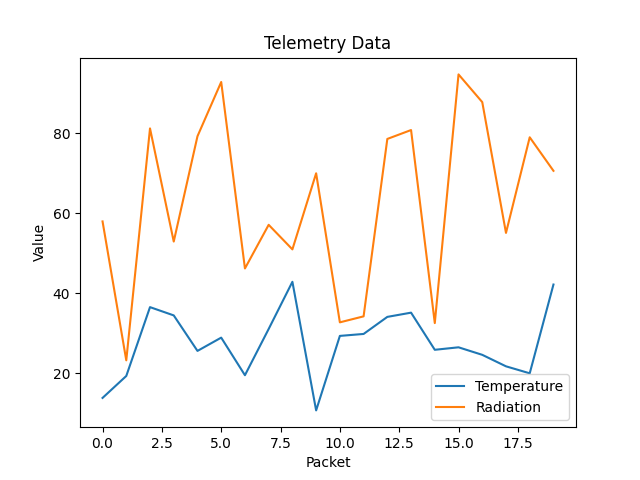
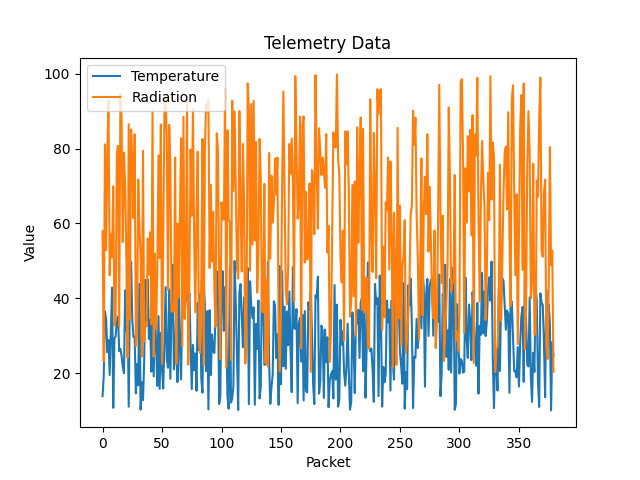
Architecture documentation completed

diff --git a/docs/ARCHITECTURE.md b/docs/ARCHITECTURE.md
@@ -1,0 +1,178 @@
+# PDT Simulator Architecture
+
+Satellite Telemetry Simulator
+
+---
+
+> Architecture and system design documentation for the PDT Simulator project.
+
+---
+
+## Overview
+
+════════════════════════════════
+
+PDT Simulator is a satellite telemetry simulation platform designed to emulate the complete lifecycle of telemetry acquisition, storage, export and transmission.
+
+The system generates realistic telemetry data from multiple simulated satellites, stores packets in memory, exports information to structured formats (CSV and JSON), and transmits telemetry through a UDP-based communication layer to a ground station.
+
+The project was developed following software engineering principles, including modular architecture, multithreading, network simulation, UML modeling, and technical documentation.
+
+---
+
+## Architecture Layers
+
+════════════════════════════════
+
+### Simulation Layer
+
+→ Responsible for application orchestration and concurrent execution of satellite workers.
+
+Components
+
+Main
+
+SatelliteWorker
+
+### Satellite Layer
+
+→ Responsible for telemetry generation and satellite behavior simulation.
+
+Components
+
+Satellite
+
+### Telemetry Layer
+
+→ Responsible for telemetry packet representation and temporary memory storage.
+
+Components
+
+DataPacket
+
+DDRMemory
+
+### Export Layer
+
+→ Responsible for persistent telemetry export.
+
+Components
+
+CSVExporter
+
+JSONExporter
+
+### Network Layer
+
+→ Responsible for telemetry transmission and reception through UDP communication.
+
+Components
+
+Transmitter
+
+TelemetryServer
+
+GroundStation
+
+---
+
+## Architecture Diagrams
+
+════════════════════════════════
+
+### UML Class Diagram
+
+The UML Class Diagram represents the static architecture of the simulator and the relationships between its components.
+
+<p>
+  <img src="uml-class-diagram.png" width="900">
+</p>
+
+---
+
+### System Flow Diagram
+
+The System Flow Diagram illustrates the complete telemetry lifecycle, from satellite data generation to ground station reception.
+
+<p>
+  <img src="system-flow-diagram.png" width="600">
+</p>
+
+---
+
+## Execution Flow
+
+════════════════════════════════
+
+The simulator executes the following workflow:
+
+1. Satellites generate telemetry data.
+
+2. SatelliteWorker threads process telemetry packets.
+
+3. Telemetry packets are stored in DDR memory.
+
+4. Data is exported to CSV and JSON formats.
+
+5. Packets are transmitted through UDP communication.
+
+6. TelemetryServer receives incoming telemetry.
+
+7. GroundStation processes and displays the received data.
+
+---
+
+## Design Principles
+
+════════════════════════════════
+
+The system was designed following the principles below:
+
+Modular architecture
+
+Separation of concerns
+
+Multithreaded execution
+
+Network simulation
+
+Extensible telemetry processing
+
+Clear documentation and UML modeling
+
+---
+
+## Current Features
+
+════════════════════════════════
+
+* Multi-satellite simulation
+
+* Multithreaded execution
+
+* DDR memory storage
+
+* CSV export
+
+* JSON export
+
+* UDP communication
+
+* Packet loss simulation
+
+* Network latency simulation
+
+* Ground station reception
+
+* UML architecture documentation
+
+* System flow documentation
+
+---
+
+## Version
+
+════════════════════════════════
+
+Version: v0.7 – Realistic Telemetry Simulator
+

diff --git a/README.md b/README.md
@@ -1,0 +1,3 @@
+## Documentation
+
+* Architecture Documentation: [ARCHITECTURE.md](docs/ARCHITECTURE.md)
